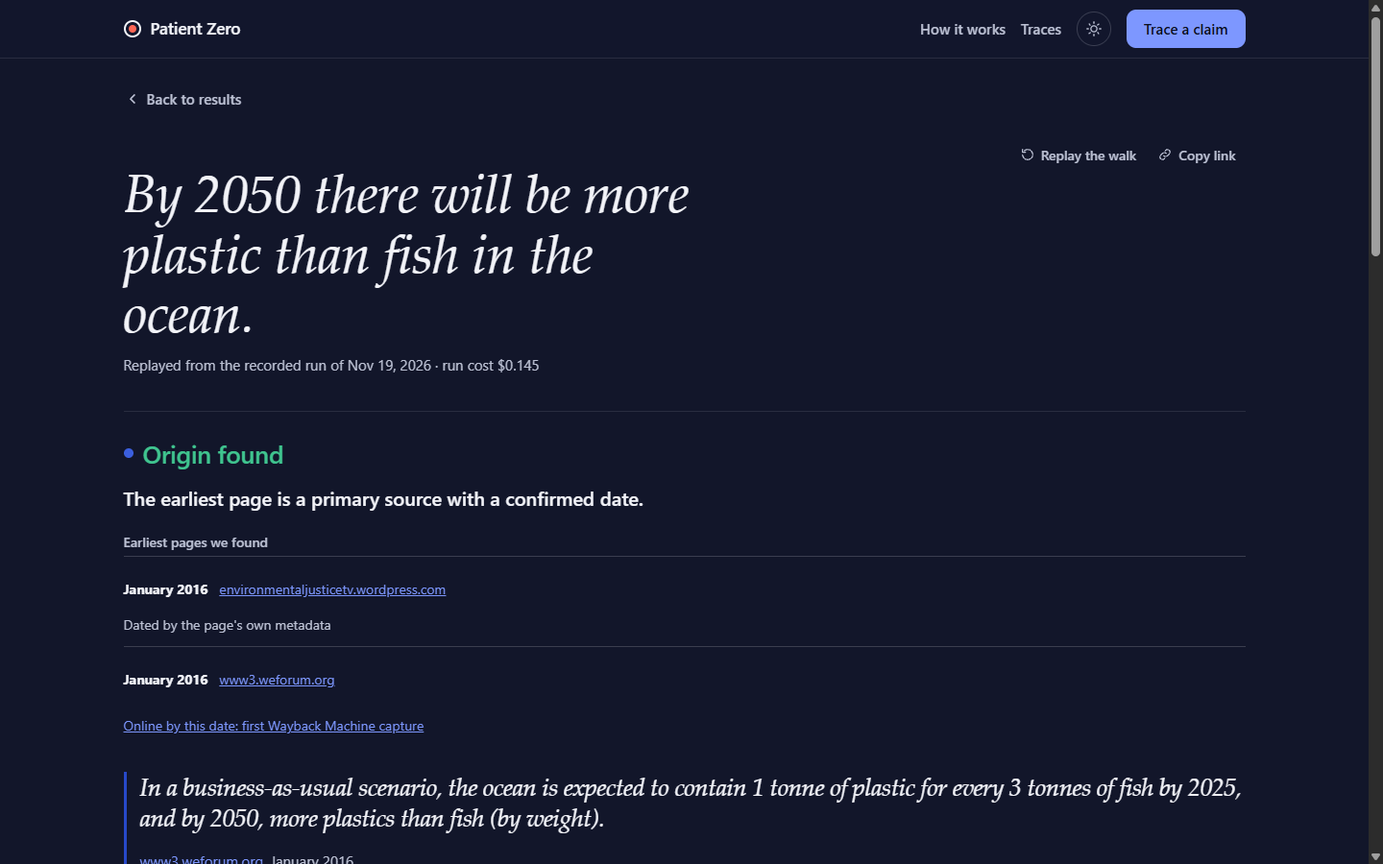
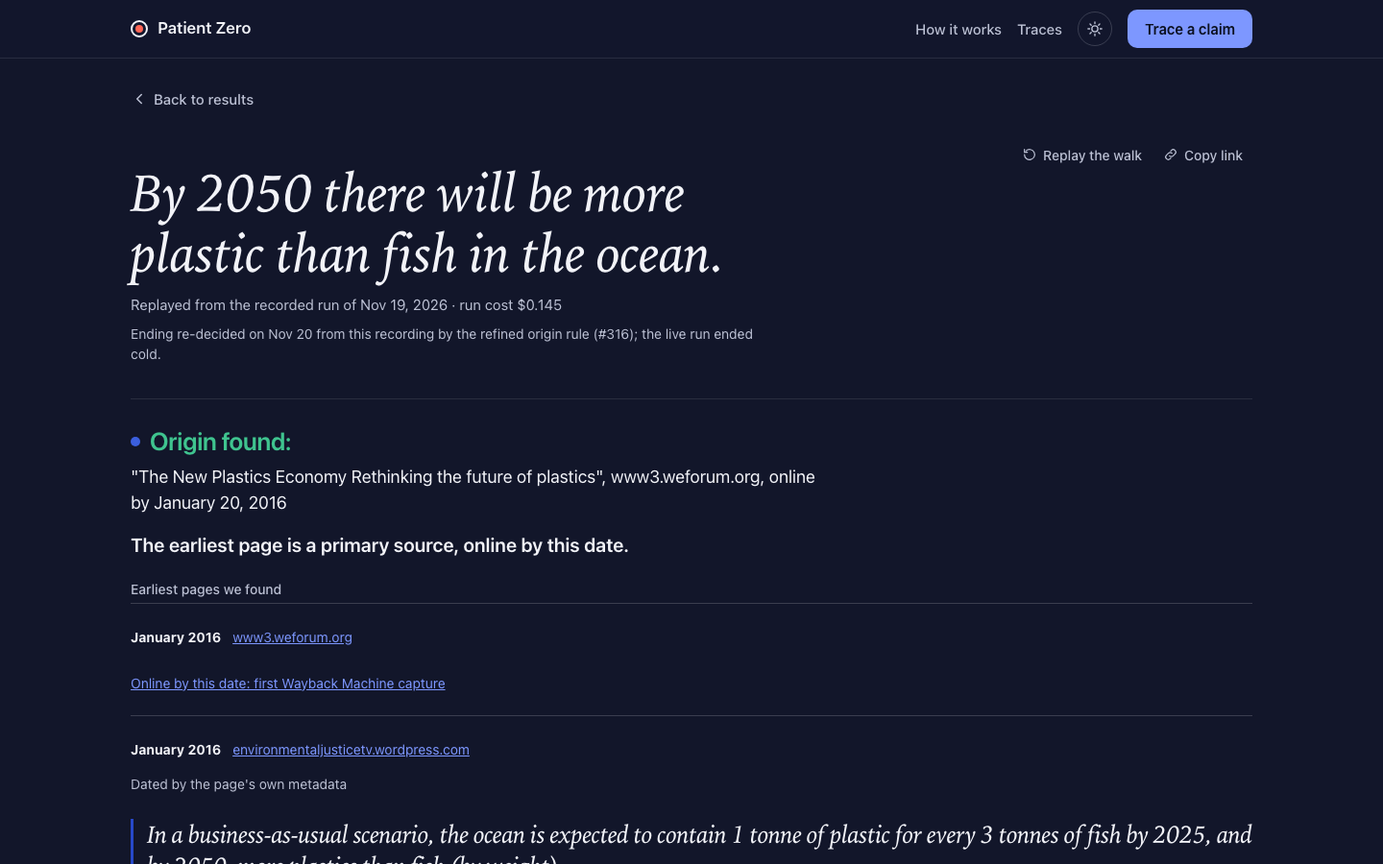
README: final pass for judges (#323)

diff --git a/README.md b/README.md
@@ -1,17 +1,11 @@
 # Patient Zero
 
-**Anyone can find you a source. Patient Zero shows you whether to trust it.** Paste a viral claim and it walks it back through time to the earliest web page it can find that states it.
+**Paste a viral claim. Patient Zero walks it back through time to the earliest web page it can find that states it, quotes the exact sentence on every page, and shows how each date was proven.**
 
-**Try it live: [patient-0.vercel.app](https://patient-0.vercel.app)** (live traces share a small shared budget; recorded traces open free).
-
-Demo video (2 to 3 min): [SLOT: link]
-
-Team: Vidyut ([@vs-githjk](https://github.com/vs-githjk)), Rohan ([@rohanrastogi311](https://github.com/rohanrastogi311)), Anoop ([@AnoopIbrampur](https://github.com/AnoopIbrampur)), Rishit ([@RishitRai](https://github.com/RishitRai)).
-
-**What makes it different**
-- The exact sentence on every page, each dated with how the date was proven, and a link you can open.
-- Copies are counted apart from independent roots, so ten repeats of one source count once.
-- When the trail runs out, it says so instead of naming an origin: code decides the ending, never the model.
+- **Try it live:** [patient-0.vercel.app](https://patient-0.vercel.app) (live traces draw on a small shared budget; recorded traces open free)
+- **Demo video (2 min):** [Watch on YouTube](https://youtu.be/VFKoXNjVgNU)
+- **Team Says Who:** Vidyut Sriram, captain ([@vs-githjk](https://github.com/vs-githjk)), Anoop Ibrampur ([@AnoopIbrampur](https://github.com/AnoopIbrampur)), Rishit Rai ([@RishitRai](https://github.com/RishitRai)), Rohan Rastogi ([@rohanrastogi311](https://github.com/rohanrastogi311))
+- **Built on:** Nebius Token Factory (typed questions, strict JSON schemas, first-token logprobs) and Tavily (search and extract), with the Wayback Machine for dates. A research agent for the ODSC x Nebius challenge, "build a research agent that brings its sources".
 
 <picture>
   <source media="(prefers-color-scheme: dark)" srcset="docs/screenshots/readme/landing-1440-dark.png">
@@ -20,24 +14,43 @@ Team: Vidyut ([@vs-githjk](https://github.com/vs-githjk)), Rohan ([@rohanrastogi
 
 <picture>
   <source media="(prefers-color-scheme: dark)" srcset="docs/screenshots/readme/trace-dev10-1440-dark.png">
-  <img alt="The trace view on the recorded dev-10 trace: the claim, the ending Origin found, the earliest pages found and how each was dated" src="docs/screenshots/readme/trace-dev10-1440-light.png">
+  <img alt="The trace view on the recorded dev-10 trace: Origin found, the WEF report, online by January 20, 2016, then the earliest pages found and how each was dated" src="docs/screenshots/readme/trace-dev10-1440-light.png">
 </picture>
 
-*The landing, and a real recorded trace ([dev-10](eval/dev-traces/dev-10.json)): Origin found: the WEF report, January 2016. "The New Plastics Economy" is the earliest primary source found, dated by its first Wayback Machine capture: archived by January 20, 2016; publication date not established.*
-<!-- numbers ok: 1440 (screenshot width in the file names) -->
-
-Team **Says Who**, ODSC x Nebius Hackathon 2026. Built on **Nebius Token Factory** (typed questions, strict JSON schemas, first-token logprobs) and **Tavily** (search and extract), with the Wayback Machine for dates.
+*The landing, and a real recorded trace ([dev-10](eval/dev-traces/dev-10.json)): Origin found: the WEF report "The New Plastics Economy", the earliest primary source found. Its date comes from its first Wayback Machine capture: online by January 20, 2016; publication date not established.*
+<!-- numbers ok: 1440, 2 (screenshot width in the file names; the video length) -->
 
 ## Where it stands
 
-- **Runs live end to end:** `pz trace "<claim>"` searches with Tavily, reads and dates pages, asks Token Factory typed questions and decides the ending in code ([#191](https://github.com/vs-githjk/odsc-nebius-hackathon/pull/191)); with no keys every command replays committed traces.
-- **On our 20-claim tuning set (E2), final live run on Nov 19:** 0 false origins, target page cited on 4/10, earliest page right on 2, correct cold stops 6/9 ([eval/dev-score.md](eval/dev-score.md), which also holds every earlier run).
-- **The replay re-decision finds the expected origins:** [dev-10](eval/dev-traces/dev-10.json) ends on the World Economic Forum report and [dev-09](eval/dev-traces/dev-09.json) on the Science Advances paper. This used the recorded evidence, with no new live calls ([eval/dev-score.md](eval/dev-score.md)). Reaching and dating origins remains a weakness: the gallery live run named a false origin, G4, which no longer passes the origin rules on replay ([docs/gallery.md](docs/gallery.md), [docs/limits.md](docs/limits.md)).
-- **Held-out, run once on Nov 19:** 0 false origins on ten claims it never saw, but it cited none of the 6 targets, and 2 of 10 traces failed ([eval/heldout-readout.md](eval/heldout-readout.md)). The first-week spike, which lost, is under [Evaluation](#evaluation).
+- **Runs live end to end.** `pz trace "<claim>"` searches with Tavily, reads and dates pages, asks Token Factory typed questions and decides the ending in code ([#191](https://github.com/vs-githjk/odsc-nebius-hackathon/pull/191)). With no keys, every command replays committed traces.
+- **No false origins on either eval set.** 0 on the 20-claim tuning set (E2, final live run on Nov 19, [eval/dev-score.md](eval/dev-score.md)) and 0 on the 10-claim held-out set, run once on Nov 19 on claims it never saw ([eval/heldout-readout.md](eval/heldout-readout.md)). When it cannot back an origin, it says so.
+- **Reaching the origin is the weak part.** On E2 it cited the target page on 4/10, ranked the right page earliest on 2, and stopped cold correctly on 6/9. The held-out run cited none of its 6 targets, stopped cold correctly on 2/4, and 2 of 10 traces failed. A live run on a separate gallery of claims named one false origin, G4 ([docs/gallery.md](docs/gallery.md)); it no longer passes the origin rules on replay.
+- **Two origins found on replay, not live.** A replay re-decision of the recorded E2 traces with the refined origin rule, with no new search or model calls, ends [dev-10](eval/dev-traces/dev-10.json) on the World Economic Forum report and [dev-09](eval/dev-traces/dev-09.json) on the Science Advances paper, both their expected origins. Neither live run had ended on an origin; dev-score.md labels the row as a replay. Every known failure is in [docs/limits.md](docs/limits.md).
+
+## The problem
+
+A reporter or fact-checker has one number and a deadline. A search engine or a chatbot will hand them a source, but they still have to open it to see whether it says the same thing, and whether anything older said it first. Copies also drift as they spread. "By 2050 there will be more plastic than fish in the ocean" is repeated across the web. The earliest page Patient Zero found, the World Economic Forum's 2016 report, says it "in a business-as-usual scenario" and "by weight" ([dev-10](eval/dev-traces/dev-10.json)). The viral version drops both.
+
+Patient Zero gives them the chain of pages behind a claim, each with its verbatim sentence and date, and an ending they can check.
+
+## What it does
+
+- **The exact sentence on every page**, each dated with how the date was proven, and a link you can open.
+- **Copies counted apart from independent roots**, so ten repeats of one source count once.
+- **An honest ending.** When the trail runs out, it says so and says why instead of naming an origin. Code decides the ending, never the model.
+
+The live app has five views: the landing with a recorded walk, a trace (ending first, then Follow the wording, then Copies and roots), Check an AI answer, Recorded traces, and How it works. At phone width:
+
+<p>
+  <img width="150" alt="Landing page on a phone" src="docs/screenshots/submission/phone/1-landing-390.png">
+  <img width="150" alt="The trace ending on a phone" src="docs/screenshots/submission/phone/2-trace-ending-390.png">
+  <img width="150" alt="Follow the wording on a phone" src="docs/screenshots/submission/phone/3-follow-the-wording-390.png">
+  <img width="150" alt="Copies and roots on a phone" src="docs/screenshots/submission/phone/4-copies-and-roots-390.png">
+  <img width="150" alt="Check an AI answer on a phone" src="docs/screenshots/submission/phone/5-check-an-ai-answer-390.png">
+</p>
+<!-- numbers ok: 390, 150 (screenshot width in the file names, image width) -->
 
 ## Try it in two minutes, no API keys
-
-For the complete fresh-checkout judge path, run `bash scripts/judge-check.sh`. It installs dependencies, verifies the project, runs the judge summary and independently checks the replay output with provider keys empty. CI runs it on Linux and macOS; see [the workflow](.github/workflows/judge-check.yml).
 
 ```sh
 git clone https://github.com/vs-githjk/odsc-nebius-hackathon.git && cd odsc-nebius-hackathon
@@ -57,7 +70,9 @@ npm run dev -w web              # the trace view, on the sample traces
 
 `make replay` defaults to an invented sample trace and labels it SAMPLE on the first line. Point it at any recorded trace with `TRACE=path/to/trace.json`. Replay never calls a model or a search API.
 
-## Use it from an MCP client
+For the complete fresh-checkout path, run `bash scripts/judge-check.sh`. It installs dependencies, verifies the project, runs the judge summary and independently checks the replay output with provider keys empty. CI runs it on Linux and macOS ([the workflow](.github/workflows/judge-check.yml)).
+
+### Use it from an MCP client
 
 The Node stdio server exposes `pz_trace` and `pz_verify`. It uses newline-delimited JSON-RPC and negotiates protocol `2025-06-18` ([transport](https://modelcontextprotocol.io/specification/2025-06-18/basic/transports), [tools](https://modelcontextprotocol.io/specification/2025-06-18/server/tools)). After `npm ci`, replace `/absolute/repo` in your client's configuration:
 
@@ -73,19 +88,6 @@ The Node stdio server exposes `pz_trace` and `pz_verify`. It uses newline-delimi
 ```
 
 The server resolves relative paths from this repository. `pz_trace {}` opens the SAMPLE; `{"replayPath":"eval/dev-traces/dev-10.json"}` replays a recording without keys. `pz_verify` accepts `{"path":"fixtures/traces/sample-rich.json"}` or `{"trace":...}`. A `claim` argument requests a LIVE run through the existing budgeted CLI and requires inherited `NEBIUS_API_KEY`, `TAVILY_API_KEY` and an approved `DEV_LEDGER`; the server does not load `.env` itself. Approve private-claim disclosure and paid calls in your client before using LIVE. Page text in results is evidence, never instructions.
-
-### On a phone
-
-The same five views at phone width:
-
-<p>
-  <img width="150" alt="Landing page on a phone" src="docs/screenshots/submission/phone/1-landing-390.png">
-  <img width="150" alt="The trace ending on a phone" src="docs/screenshots/submission/phone/2-trace-ending-390.png">
-  <img width="150" alt="Follow the wording on a phone" src="docs/screenshots/submission/phone/3-follow-the-wording-390.png">
-  <img width="150" alt="Copies and roots on a phone" src="docs/screenshots/submission/phone/4-copies-and-roots-390.png">
-  <img width="150" alt="Check an AI answer on a phone" src="docs/screenshots/submission/phone/5-check-an-ai-answer-390.png">
-</p>
-<!-- numbers ok: 390, 150 (screenshot width in the file names, image width) -->
 
 ## How it works
 
@@ -112,10 +114,12 @@ flowchart LR
 | walk | Searches date windows further and further back, reads pages, keeps sentences that state the claim | Tavily `search`, `extract` | built, including ranked citation following and searches for named sources ([#110](https://github.com/vs-githjk/odsc-nebius-hackathon/pull/110)) |
 | spans | Every edge between two pages rests on two verbatim sentences, one on each page | code | built, with link-verified edges ([#108](https://github.com/vs-githjk/odsc-nebius-hackathon/pull/108)) |
 | dating | Dates each page from a scholarly registry, its own metadata, or a marked publication date in the article (only when nothing on the page contradicts it), capped by its first Wayback capture | Wayback CDX | built |
-| clusters | Groups copies (versions, syndication, same byline, near duplicates) and counts roots | code, `Qwen/Qwen3-Embedding-8B` for reworded copies | built; the walk passes embeddings into clustering when it is given an embedder ([#170](https://github.com/vs-githjk/odsc-nebius-hackathon/pull/170)), and the live pipeline ([#191](https://github.com/vs-githjk/odsc-nebius-hackathon/pull/191)) supplies one |
+| clusters | Groups copies (versions, syndication, same byline, near duplicates) and counts roots | code, `Qwen/Qwen3-Embedding-8B` for reworded copies | built; the live pipeline ([#191](https://github.com/vs-githjk/odsc-nebius-hackathon/pull/191)) passes embeddings into clustering ([#170](https://github.com/vs-githjk/odsc-nebius-hackathon/pull/170)) |
 | readouts | Per hop: number, unit, hedge and comparison changes measured by code; scope, attribution and context asked as typed yes/no questions | same model, logprobs | built |
 | same claim | A page counts as stating the claim only if code finds the claim's number (or phrase) in the sentence **and** a typed question answers yes with known confidence | same model, logprobs | built |
 | stop state | Code picks one of six endings from the trace; the model never does | none | built |
+
+**Trade-offs.** Every trace runs under hard caps on Tavily credits, dollars, time, steps back and pages per round (row 2 of the endings table below), so a long trail ends PARTIAL rather than running up cost. A missed date is accepted to avoid a false earlier one. Median speed and cost per trace are in [eval/perf.md](eval/perf.md).
 
 ### How many roots, not just how many pages
 
@@ -124,7 +128,9 @@ Every trace counts the pages it found, how many independent roots they trace bac
 
 ### How a page gets its date
 
-In this order, stopping at the first that answers: a scholarly registry for pages it knows (PubMed, PubMed Central, Crossref for a DOI); the page's own meta tags and JSON-LD; and last, **a marked publication date in the article, only when nothing on the page contradicts it**. That last one is read from a single strictly marked `<time itemprop="datePublished">` near the top of the article, outside related, sidebar and other teaser blocks, lists and links, and it is refused if any other date anywhere on the page (another time, an attribute, the text, inline data, JSON-LD or the URL) is later. So an older related-article card can never backdate the page ([#285](https://github.com/vs-githjk/odsc-nebius-hackathon/pull/285)). Whatever date is found is capped by the page's first Wayback capture, and a page with no date it trusts is dated by that capture. A missed date is fine; a false earlier date is the error the rules are built to avoid. The rules and their adversarial tests are in [publication.ts](packages/pz/src/engine/publication.ts) and [byline.test.ts](packages/pz/test/byline.test.ts).
+In this order, stopping at the first that answers: a scholarly registry for pages it knows (PubMed, PubMed Central, Crossref for a DOI); the page's own meta tags and JSON-LD; and last, **a marked publication date in the article, only when nothing on the page contradicts it**. That last one is read from a single strictly marked `<time itemprop="datePublished">` near the top of the article, outside related, sidebar and teaser blocks, lists and links, and it is refused if any other date anywhere on the page (another time, an attribute, the text, inline data, JSON-LD or the URL) is later. So an older related-article card can never backdate the page ([#285](https://github.com/vs-githjk/odsc-nebius-hackathon/pull/285)).
+
+Whatever date is found is capped by the page's first Wayback capture, and a page with no date it trusts is dated by that capture, shown as "online by" that date. A capture dates a page only if it holds the claim's sentence ([docs/limits.md](docs/limits.md), L19, lists the exceptions). A missed date is fine; a false earlier date is the error the rules are built to avoid. The rules and their adversarial tests are in [publication.ts](packages/pz/src/engine/publication.ts), [capture.ts](packages/pz/src/engine/capture.ts) and [byline.test.ts](packages/pz/test/byline.test.ts).
 
 ### Code decides how a trace ends
 
@@ -133,25 +139,25 @@ The model answers narrow typed questions. Code reads the trace and picks the end
 | Row | Ending | When |
 |---|---|---|
 | 1 | `TOOL_FAILED` | A search or fetch failed. This says nothing about the claim. |
-| 2 | `PARTIAL` | A cap was hit: 150 Tavily credits, $0.50, 5 minutes, 8 hops or 5 pages per round. |
+| 2 | `PARTIAL` | A cap was hit: 150 Tavily credits, $0.50, 5 minutes, 8 steps back or 5 pages per round. |
 | 3 | `NO_PAGES_FOUND` | No page states the claim, apart from pages discussing it as a claim. |
 | 4 | `CONFLICTING` | The earliest pages give different numbers for the same thing. |
-| 5 | `ORIGIN_FOUND` | The earliest page is a primary source (study, dataset, report or the speaker's own words) with a confirmed date, cites nothing earlier, is not negated, and states the same claim; no page it cites is left unread, and two searches further back found nothing earlier. |
+| 5 | `ORIGIN_FOUND` | The earliest page is a primary source (study, dataset, report or the speaker's own words) with a confirmed date, or online by that date when its first Wayback capture holds the claim. It is typed with confidence and sits at a document address (not a dated article or a list page), cites nothing earlier, does not deny the claim, and states the same claim. No page cites a page that could not be read, except a fact-check about a different claim; every page on the trail dated earlier has been ruled out; and two searches further back found nothing older. |
 | 6 | `TRAIL_GOES_COLD` | Anything else. The card says which check failed. |
 
 ### Why each step can be checked
 
 - **Two verbatim spans per edge.** `pz verify` re-opens each saved page, re-finds every sentence at its offsets and hashes, and recomputes the stop state ([packages/pz/src/verify/checks.ts](packages/pz/src/verify/checks.ts)). `make verify` runs it on every committed trace.
-- **Typed questions, not free text.** Every model call uses a strict JSON schema. Confidence comes from the first-token logprobs of the answer, and "unsure" never makes an origin. The cutoff below which a "yes" stops counting is not set yet (`confidenceThreshold` is null in rules.json; limits L6), so today any "yes" with a known probability counts ([packages/pz/src/typed/](packages/pz/src/typed/ask.ts)).
-- **Page text is data.** Claims and pages go to the model inside a `source_text` field, and every prompt says so. Tests plant instructions inside claims and sentences and check they stay data. A planted trap set checks the counters for false certainty ([traps/README.md](traps/README.md)).
+- **Confidence from logprobs.** Every typed answer carries a confidence from the first-token logprobs, and "unsure" never makes an origin. The cutoff below which a "yes" stops counting is not set yet (`confidenceThreshold` is null in rules.json; limits L6), so today any "yes" with a known probability counts ([packages/pz/src/typed/](packages/pz/src/typed/ask.ts)).
 - **The card cannot overclaim.** The card's one sentence is dropped if it uses a number, name, quote or date not in the spans, or says "origin" on a trace that did not end `ORIGIN_FOUND` ([packages/pz/src/card/index.ts](packages/pz/src/card/index.ts)).
+- **A planted trap set** checks the counters for false certainty ([traps/README.md](traps/README.md)).
 
 ### Safety
 
 - **Web page text is untrusted evidence.** Page and claim text reach the model only inside a `source_text` field, kept apart from the instructions, and every prompt says it is data to judge, never instructions to follow ([packages/pz/src/typed/ask.ts](packages/pz/src/typed/ask.ts)). Tests plant instructions inside claims and pages and check they stay data, and the adversarial traps plant fake origins written to fool the model ([packages/pz/src/traps/adversarial.ts](packages/pz/src/traps/adversarial.ts)).
 - **The model answers typed questions only.** Every call is a narrow question with a strict JSON schema ([packages/pz/src/schema/questions.ts](packages/pz/src/schema/questions.ts)); there is no free-text answer for the engine to act on.
-- **Code, not the model, decides the ending.** The decision table reads the trace and picks the stop state ([packages/pz/src/rules/decide.ts](packages/pz/src/rules/decide.ts)), and the card drops any sentence that says more than the spans ([packages/pz/src/card/index.ts](packages/pz/src/card/index.ts)).
-- **Fetching is public-only.** Page fetches refuse private, loopback and link-local hosts at every redirect, and are capped in size and time ([packages/pz/src/engine/publication.ts](packages/pz/src/engine/publication.ts)). Keys never reach the browser: the live app calls them from a server function.
+- **Code, not the model, decides the ending.** The decision table reads the trace and picks the stop state ([packages/pz/src/rules/decide.ts](packages/pz/src/rules/decide.ts)), and the card drops any sentence that says more than the spans.
+- **Fetching is public-only.** Page fetches refuse private, loopback and link-local hosts at every redirect, and are capped in size and time ([packages/pz/src/engine/publication.ts](packages/pz/src/engine/publication.ts)). Keys never reach the browser: the live app calls the services from a server function.
 
 ## A trace, walked step by step
 
@@ -159,10 +165,10 @@ One real claim from paste to stop state: dev-10, "By 2050 there will be more pla
 
 1. **Fingerprint.** Code reads the claim's number from "By 2050" (a forecast year is kept as the number only after "by"); Token Factory copies the subject ("plastic"), the population ("in the ocean") and the time ("by 2050"), and code keeps only words found in the claim.
 2. **Walk, window 1 (up to the day of the run).** Four searches: two built by code (`"2050" plastic`, `"more plastic than fish in the ocean" by 2050`) and two planned by the model and checked by code (one names the Ellen MacArthur Foundation). A fact-check search finds Snopes, which is read as a map: its citations are followed, and it is never a candidate origin.
-3. **Reading and dating.** Each page with a sentence that carries the claim's atoms gets a typed `same_claim` question. The earliest pages land on January 20, 2016: a blog post (dated by its own metadata) and the World Economic Forum's report "The New Plastics Economy" (dated by its first archive capture, which holds the sentence: since #238 a capture that lacks the claim never dates a page). On the report the model said yes to `same_claim`, and its page type is report.
+3. **Reading and dating.** Each page with a sentence that carries the claim's atoms gets a typed `same_claim` question. The earliest pages land on January 20, 2016: a blog post (dated by its own metadata) and the World Economic Forum's report "The New Plastics Economy" (dated by its first archive capture, which holds the sentence). On the report the model said yes to `same_claim`, and its page type is report.
 4. **Walk, windows 2 and 3.** Searches before 2016-01-19, then before 2010-06-14, look for anything older. Nothing older states the claim.
-5. **Stop state.** Code, not the model, decides: rule 5 holds and it ends **Origin found**. Its recorded reason: the earliest page is a report with a confirmed date. The unread citations elsewhere in the trace do not block this origin under the refined rules ([eval/dev-score.md](eval/dev-score.md)).
-6. **Card.** Origin found: the WEF report, January 2016. The earliest primary source found is "The New Plastics Economy", quoting its own sentence: "In a business-as-usual scenario, the ocean is expected to contain 1 tonne of plastic for every 3 tonnes of fish by 2025, and by 2050, more plastics than fish (by weight)." Its date comes from the first Wayback Machine capture: archived by January 20, 2016; publication date not established. This is not proof of first use.
+5. **Stop state.** Code, not the model, decides. The live run ended cold. Re-decided from the same recording with the refined origin rule (no new calls), the unread citations elsewhere in the trace, such as a fact-check about a different claim, no longer block it: rule 5 holds and it ends **Origin found** on the report, online by its first capture date ([eval/dev-score.md](eval/dev-score.md)).
+6. **Card.** Origin found: the WEF report, January 2016. The earliest primary source found is "The New Plastics Economy", quoting its own sentence: "In a business-as-usual scenario, the ocean is expected to contain 1 tonne of plastic for every 3 tonnes of fish by 2025, and by 2050, more plastics than fish (by weight)." Its date comes from the first Wayback Machine capture: online by January 20, 2016; publication date not established. This is not proof of first use.
 
 For an honest cold stop, open [dev-02](eval/dev-traces/dev-02.json): "The average person swallows eight spiders a year while sleeping." It ends **The trail goes cold**: "A page it cites could not be opened." No origin is named.
 
@@ -202,7 +208,7 @@ These two are labelled synthetic: the claim is the invented Harbor Zoo one, and 
 
 | Set | Claims | Use | Result |
 |---|---|---|---|
-| E2 dev ([eval/dev-claims.json](eval/dev-claims.json)) | 20: 11 with a web origin, 9 that go cold | Rules, cutoffs and prompts are tuned here only | Latest row in [eval/dev-score.md](eval/dev-score.md), the final live run (Nov 19): false origins 0, target cited 4/10, earliest 2 Pass, 0 Partial, 8 Fail, cold stops 6/9, 18 of 19 scored (1 out of scope). Every earlier run is a row in the same file. |
+| E2 dev ([eval/dev-claims.json](eval/dev-claims.json)) | 20: 11 with a web origin, 9 that go cold | Rules, cutoffs and prompts are tuned here only | Final live run (Nov 19), latest live row in [eval/dev-score.md](eval/dev-score.md): false origins 0, target cited 4/10, earliest 2 Pass, 0 Partial, 8 Fail, cold stops 6/9, 18 of 19 scored (1 out of scope). The replay re-decision after it, labelled as such, ends dev-09 and dev-10 Origin found with false origins still 0. Every earlier run is a row in the same file. |
 | E3 check ([eval/dev-claims-e3.json](eval/dev-claims-e3.json)) | 40: 18 with a web origin, 22 that go cold | Check only, nothing tuned on it | not run live yet |
 | Held-out | 10, private; its hash was committed on Nov 8, before most stages were built (the decision table, number rules and clients came first) ([eval/heldout.sha256](eval/heldout.sha256)) | Run once, on a frozen engine | Run once on Nov 19 ([eval/heldout-readout.md](eval/heldout-readout.md)): 8 of 10 traced (2 failed), false origins 0, target cited 0/6, earliest 0 Pass, 0 Partial, 5 Fail, cold stops 2/4. No false origin on unseen claims; it found none of the targets. |
 
@@ -219,7 +225,7 @@ In week 0 a first walker with fixed rules and no model ran on six claims, graded
 | Claude | 4/4 | 2/2 | 5/6 |
 | Ours (spike) | 1/4 | 0/2 | 0/6 |
 
-It was the fastest (12 to 47 s) and lost on every claim. The grading was not fully blind: six claims, graded once, by one agent-assisted grader. The post-mortem ([eval/spike-postmortem.md](eval/spike-postmortem.md)) found two main causes. False matches on a common number became the "earliest" page on four claims, and exact-number searches never reached two targets. The engine above was built against those causes: the same-claim check, weak-number clause rules, model-planned queries, and citation following ([#110](https://github.com/vs-githjk/odsc-nebius-hackathon/pull/110)). The dev score will say whether it worked.
+It was the fastest (12 to 47 s) and lost on every claim. The grading was not fully blind: six claims, graded once, by one agent-assisted grader. The post-mortem ([eval/spike-postmortem.md](eval/spike-postmortem.md)) found two main causes. False matches on a common number became the "earliest" page on four claims, and exact-number searches never reached two targets. The engine above was built against those causes: the same-claim check, weak-number clause rules, model-planned queries, and citation following ([#110](https://github.com/vs-githjk/odsc-nebius-hackathon/pull/110)). The results above show where that stands: no false origins, and origins still rarely reached.
 
 ## Token Factory and Tavily
 
@@ -233,18 +239,18 @@ It was the fastest (12 to 47 s) and lost on every claim. The grading was not ful
 
 **How links survive into the trace.** Every page a Tavily search returns is saved with its URL; Tavily `extract` gives the text the spans are cut from, and each span keeps its character offsets and a hash so `pz verify` can find it again. The Wayback capture URL that dated a page is kept on the page's date, and the trace view links both the page and the capture ("Open the page", "Open the capture"). A cited page that could not be opened is kept too, marked unread. If that page is needed to establish the origin, the trace ends cold.
 
-Every call writes a usage row: model, tokens, cached tokens, Tavily credits, dollars, latency, status and cache hit ([packages/pz/src/schema/usage.ts](packages/pz/src/schema/usage.ts)). The [recorded usage report](docs/usage-report.md) groups the current saved dev traces by service, model, endpoint and stage, with per-trace totals and cache hits. Rebuild it with `make usage-report`. It describes the saved traces, not the team billing ledger or every historical run. Median speed and cost per trace, from those rows: [eval/perf.md](eval/perf.md).
+Every call writes a usage row: model, tokens, cached tokens, Tavily credits, dollars, latency, status and cache hit ([packages/pz/src/schema/usage.ts](packages/pz/src/schema/usage.ts)). The [recorded usage report](docs/usage-report.md) groups the current saved dev traces by service, model, endpoint and stage, with per-trace totals and cache hits. Rebuild it with `make usage-report`. It describes the saved traces, not the team billing ledger or every historical run.
 
 ## Limits
 
 - Web pages only. Print-only and paywalled origins are out of scope; the trail goes cold there and says so.
 - "Earliest source we found" is not "first use". Pages that were never indexed or archived cannot be found.
 - Claims need a number, a range or a distinctive phrase to match on.
-- A false origin the gate caught: after the #310 origin rule, a replay of every recorded trace found that the S7 answer check's plastic claim would name a Greenpeace photo archive page, because the WEF report in the same trace had been judged not the same claim. The earliest-dated-page guard ([#316](https://github.com/vs-githjk/odsc-nebius-hackathon/pull/316)) now refuses an origin when an earlier page on the trail was not ruled out, and the replay test over every recorded trace keeps it that way ([packages/pz/test/origin-experiment.test.ts](packages/pz/test/origin-experiment.test.ts)).
+- A false origin the gate caught: after the #310 origin rule, a replay of every recorded trace found that the plastic claim in the recorded AI-answer check would name a Greenpeace photo archive page, because the WEF report in the same trace had been judged not the same claim. The earliest-dated-page guard ([#316](https://github.com/vs-githjk/odsc-nebius-hackathon/pull/316)) now refuses an origin when an earlier page on the trail was not ruled out, and a replay test over every recorded trace keeps it that way ([packages/pz/test/origin-experiment.test.ts](packages/pz/test/origin-experiment.test.ts)).
 - One model answers every typed question. A second model family on same claim was built, measured on E2 and rejected: it lost 23 of 60 true matches and removed no false ones, so it stays off ([#178](https://github.com/vs-githjk/odsc-nebius-hackathon/pull/178), [eval/same-claim/second-model.ts](eval/same-claim/second-model.ts)).
+- Every known failure, with an example you can run, the rule that should catch it, whether it is caught today and who owns it: [docs/limits.md](docs/limits.md), "Where Patient Zero is wrong".
 
 <!-- numbers ok: 23, 60 (XO's live E2 measure of the second model on Nov 16, logged in plan/decisions.md) -->
-- Every known failure, with an example you can run, the rule that should catch it, whether it is caught today and who owns it: [docs/limits.md](docs/limits.md), "Where Patient Zero is wrong".
 
 ## Setup for live runs
 
@@ -269,7 +275,7 @@ Every call writes a usage row: model, tokens, cached tokens, Tavily credits, dol
 
 ## For agents reading this repo
 
-Start at [llms.txt](llms.txt). The working notes live in `plan/` while the build runs; `plan/README.md` says what every file there holds.
+Start at [llms.txt](llms.txt). The working notes live in `plan/`; `plan/README.md` says what every file there holds.
 
 - Decisions live in `plan/decisions.md` (Vidyut's, with his words and dates).
 - Rulings made during the build live in `plan/progress.md`.
@@ -280,16 +286,16 @@ Teammates and their agents: read [docs/AGENTS.md](docs/AGENTS.md) first.
 
 ## Judging criteria map
 
-The weights are the official ones from the hackathon brief ([the organisers' template README](https://github.com/odsc2015/nebius-research-agent-hackaton-template)). Each row points to where to check it here, in the live app and in the demo video ([docs/demo-script.md](docs/demo-script.md)).
+The weights are the official ones from the organisers' [template README](https://github.com/odsc2015/nebius-research-agent-hackaton-template). Each row points to where to check it here, in the live app and in the [demo video](https://youtu.be/VFKoXNjVgNU) (its shots follow [docs/demo-script.md](docs/demo-script.md)).
 
 | Criterion | Weight | In this README | In the live app | In the demo video |
 |---|---|---|---|---|
-| Sourced and verifiable answers | 30% | [Why each step can be checked](#why-each-step-can-be-checked), [How a page gets its date](#how-a-page-gets-its-date), [Evaluation](#evaluation) | a trace: the exact sentence on every page, each date with how it was proven, "Open the page" and "Open the capture" | S4 and S5 (0:40 to 1:04): the sentence on each page, then the WEF report opened |
-| Works end to end | 25% | [Try it in two minutes](#try-it-in-two-minutes-no-api-keys), [Where it stands](#where-it-stands), [When it fails](#when-it-fails) | the claim box on the landing traces a new claim live; recorded traces open free | S2 and S3 (0:12 to 0:40), S9 (1:45 to 1:55) |
-| Usefulness | 20% | the opening of this README, [Limits](#limits) | Check an AI answer (`#/answer`), Recorded traces (`#/traces`) | S1 (0:00 to 0:12), S7 (1:16 to 1:30) |
-| Agent design | 15% | [How it works](#how-it-works), [Code decides how a trace ends](#code-decides-how-a-trace-ends), [Safety](#safety) | How it works (`#/how`), "How this was decided" on every trace | S6 (1:04 to 1:16), S10 (1:55 to 2:05) |
-| Use of Token Factory and Tavily | 10% | [Token Factory and Tavily](#token-factory-and-tavily) | "Replay the walk" on a trace shows each search and page read | S3 (0:20 to 0:40), S11 (2:05 to 2:15) |
-<!-- numbers ok: 30, 25, 20, 15, 10 (the official judging weights, from the organisers' template README) -->
+| Sourced and verifiable answers | 30% | [Why each step can be checked](#why-each-step-can-be-checked), [How a page gets its date](#how-a-page-gets-its-date), [Evaluation](#evaluation) | a trace: the exact sentence on every page, each date with how it was proven, "Open the page" and "Open the capture" | 0:27 to 0:44: the sentence on each page, then the WEF report opened |
+| Works end to end | 25% | [Try it in two minutes](#try-it-in-two-minutes-no-api-keys), [Where it stands](#where-it-stands), [When it fails](#when-it-fails) | the claim box on the landing traces a new claim live; recorded traces open free | 0:09 to 0:27, then 1:14 to 1:23 (`make verify`, a forced tool failure) |
+| Usefulness | 20% | [The problem](#the-problem), [What it does](#what-it-does), [Limits](#limits) | Check an AI answer (`#/answer`), Recorded traces (`#/traces`) | 0:00 to 0:09, then 0:53 to 1:05 (a whole AI answer) |
+| Agent design | 15% | [How it works](#how-it-works), [Code decides how a trace ends](#code-decides-how-a-trace-ends), [Safety](#safety) | How it works (`#/how`), "How this was decided" on every trace | 0:44 to 0:53 (a trail that goes cold), then 1:23 to 1:32 (who decides) |
+| Use of Token Factory and Tavily | 10% | [Token Factory and Tavily](#token-factory-and-tavily) | "Replay the walk" on a trace shows each search and page read | 0:17 to 0:27 (the walk), then 1:32 to 1:44 |
+<!-- numbers ok: 30, 25, 20, 15, 10 (the official judging weights, from the organisers' template README); 0, 9, 17, 27, 44, 53, 1, 5, 14, 23, 32 (timecodes measured on the final video render) -->
 
 ## License
 
@@ -299,7 +305,7 @@ MIT. See [LICENSE](LICENSE).
 
 The live web app uses the root [Vercel functions](api/trace.ts) and [deployment configuration](vercel.json). The [Node Web handler](https://vercel.com/docs/functions/runtimes/node-js) streams a single NDJSON response. Use the repository root as the Vercel project root, framework preset Other, Node `24.x`, install command `npm ci`, build command `npm -w web run build`, and output directory `apps/web/dist`. Enable Fluid compute. The function duration is `300` seconds in `vercel.json`; the [server](packages/pz/src/live/service.ts) stops provider work at `285` seconds, leaving time to settle spend and finish the stream. Provider calls and temporary page, usage and HTTP cache files are server-only. No SDK or additional dependency is required.
 
-Vidyut sets the keys in Vercel. Set these server environment variables, never client-prefixed variables:
+Set the keys in Vercel as server environment variables, never client-prefixed variables:
 
 | Variable | Purpose / default |
 | --- | --- |

diff --git a/docs/limits.md b/docs/limits.md
@@ -6,7 +6,7 @@ Every open row that names a test is pinned in [packages/pz/test/limits.test.ts](
 
 ## The biggest one first
 
-**Reaching and dating the origin is the weak part.** No live run ended on an origin. Across the live E2 runs on Nov 17 to 19 ([eval/dev-score.md](../eval/dev-score.md), recordings in [eval/dev-traces/](../eval/dev-traces/)), the final row (Nov 19) gives false origins 0 and cold stops 6 of 9, with target cited 4 of 10 and the earliest page right on 2. A later replay re-decision of those recordings (#310, labelled as such in dev-score.md) ends two of them on their expected origin: dev-10 on the WEF report of January 2016 and dev-09 on the Science Advances paper. The held-out run ([eval/heldout-readout.md](../eval/heldout-readout.md)) named no false origin but cited none of its 6 targets. Patient Zero stops honestly when it can't back an origin; what it can't yet do well is reach and date the origin. Most misses never reach the origin page (target cited 4 of 10). Where it is reached, dating is the cause: a page's first archive capture dates its URL, not the sentence on it, so a listing or a later-edited page can rank earlier than the report it quotes (dev-10, dev-17; Rohan's archive-date fix, [#3](https://github.com/vs-githjk/odsc-nebius-hackathon/issues/3)). The first run's causes and fixes are on [#192](https://github.com/vs-githjk/odsc-nebius-hackathon/issues/192). The rows below come from tests, planted cases and these runs. The SAMPLE traces in [fixtures/traces/](../fixtures/traces/) are invented, and the app and `make replay` (its default trace) label them SAMPLE.
+**Reaching and dating the origin is the weak part.** No live run ended on an origin. Across the live E2 runs on Nov 17 to 19 ([eval/dev-score.md](../eval/dev-score.md), recordings in [eval/dev-traces/](../eval/dev-traces/)), the final row (Nov 19) gives false origins 0 and cold stops 6 of 9, with target cited 4 of 10 and the earliest page right on 2. A later replay re-decision of those recordings (#310, labelled as such in dev-score.md) ends two of them on their expected origin: dev-10 on the WEF report of January 2016 and dev-09 on the Science Advances paper. The held-out run ([eval/heldout-readout.md](../eval/heldout-readout.md)) named no false origin but cited none of its 6 targets. Patient Zero stops honestly when it can't back an origin; what it can't yet do well is reach and date the origin. Most misses never reach the origin page (target cited 4 of 10). Where it is reached, dating is the cause: a page's first archive capture dates its URL, not the sentence on it, so a listing or a later-edited page could rank earlier than the report it quotes (dev-17's listing page was dated 2019 for a 2023 sentence). The archive-date fix (L19 below, [#3](https://github.com/vs-githjk/odsc-nebius-hackathon/issues/3)) now dates a page by its capture only when the capture holds the claim's sentence; dev-10 now ends on the report it quotes. The first run's causes and fixes are on [#192](https://github.com/vs-githjk/odsc-nebius-hackathon/issues/192). The rows below come from tests, planted cases and these runs. The SAMPLE traces in [fixtures/traces/](../fixtures/traces/) are invented, and the app and `make replay` (its default trace) label them SAMPLE.
 
 ## Known failures
 
@@ -39,4 +39,4 @@ These sections get filled from real runs, misses included, in the PR that commit
 - **Top causes from the first live dev run (T54, #112):** from XO's replay of the 17 recordings ([#192](https://github.com/vs-githjk/odsc-nebius-hackathon/issues/192)). (1) A page where `same_claim` said a confident "no" can still become the earliest page, and the next searches then end before the true origin: 8 claims (dev-02, 04, 06, 09, 10, 11, 18, 20). (2) Pages that got a `same_claim` yes were dated years late, because a DOI page was not sent to Crossref and in-page dates were read after Wayback: dev-09, dev-11, dev-14. (3) The only false origin, dev-13: its earliest page names an earlier print source in words ("In the November/December 2009 issue of World Watch"), and code counts only links as an earlier citation. Fixes are on #192, each with a replay re-score.
 - **Gallery misses (T92, #159):** the answers were committed before any trace ([#168](https://github.com/vs-githjk/odsc-nebius-hackathon/pull/168)). The traces aren't run yet. Every MISS and PARTIAL goes here.
 - **Rematch losses (T93, #160):** the protocol and the draw are in [#171](https://github.com/vs-githjk/odsc-nebius-hackathon/pull/171), but nothing has been run or graded. Every claim where a rival did better goes here.
-- **Held-out misses (T67, #125):** the held-out run isn't done. Every miss goes here, as it is.
+- **Held-out misses (T67, #125):** run once on Nov 19 ([eval/heldout-readout.md](../eval/heldout-readout.md)): no false origin, but none of the 6 targets cited, no scored origin trace ranked the right page earliest, and 2 of 10 traces failed (one at the fingerprint stage, one at verification). The claims stay private, so the per-claim misses are not listed here.
